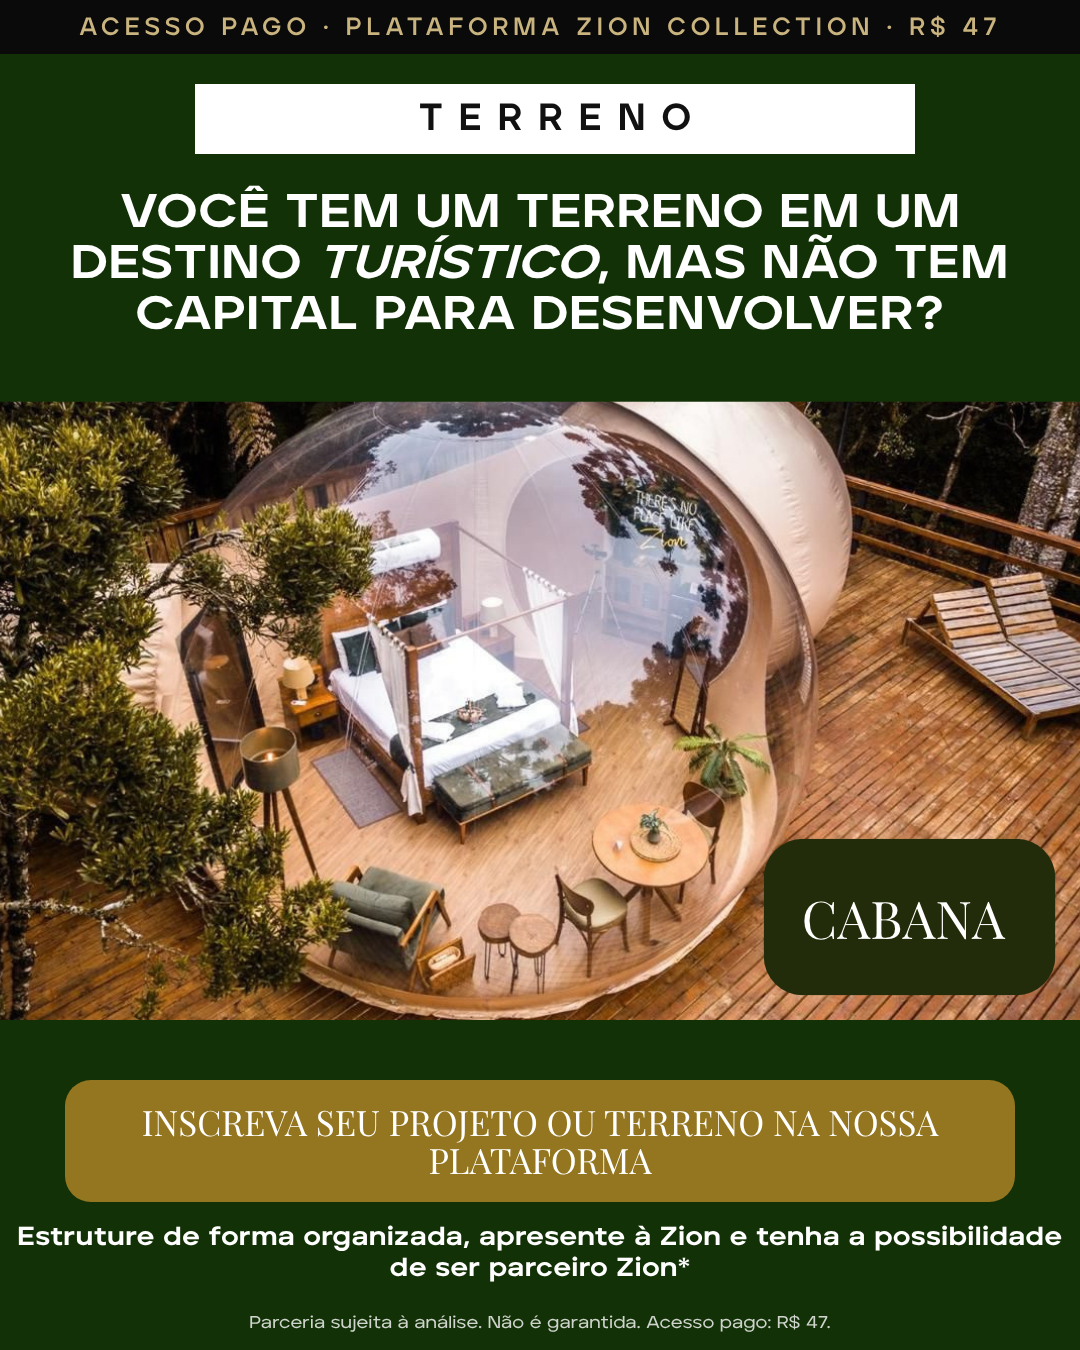
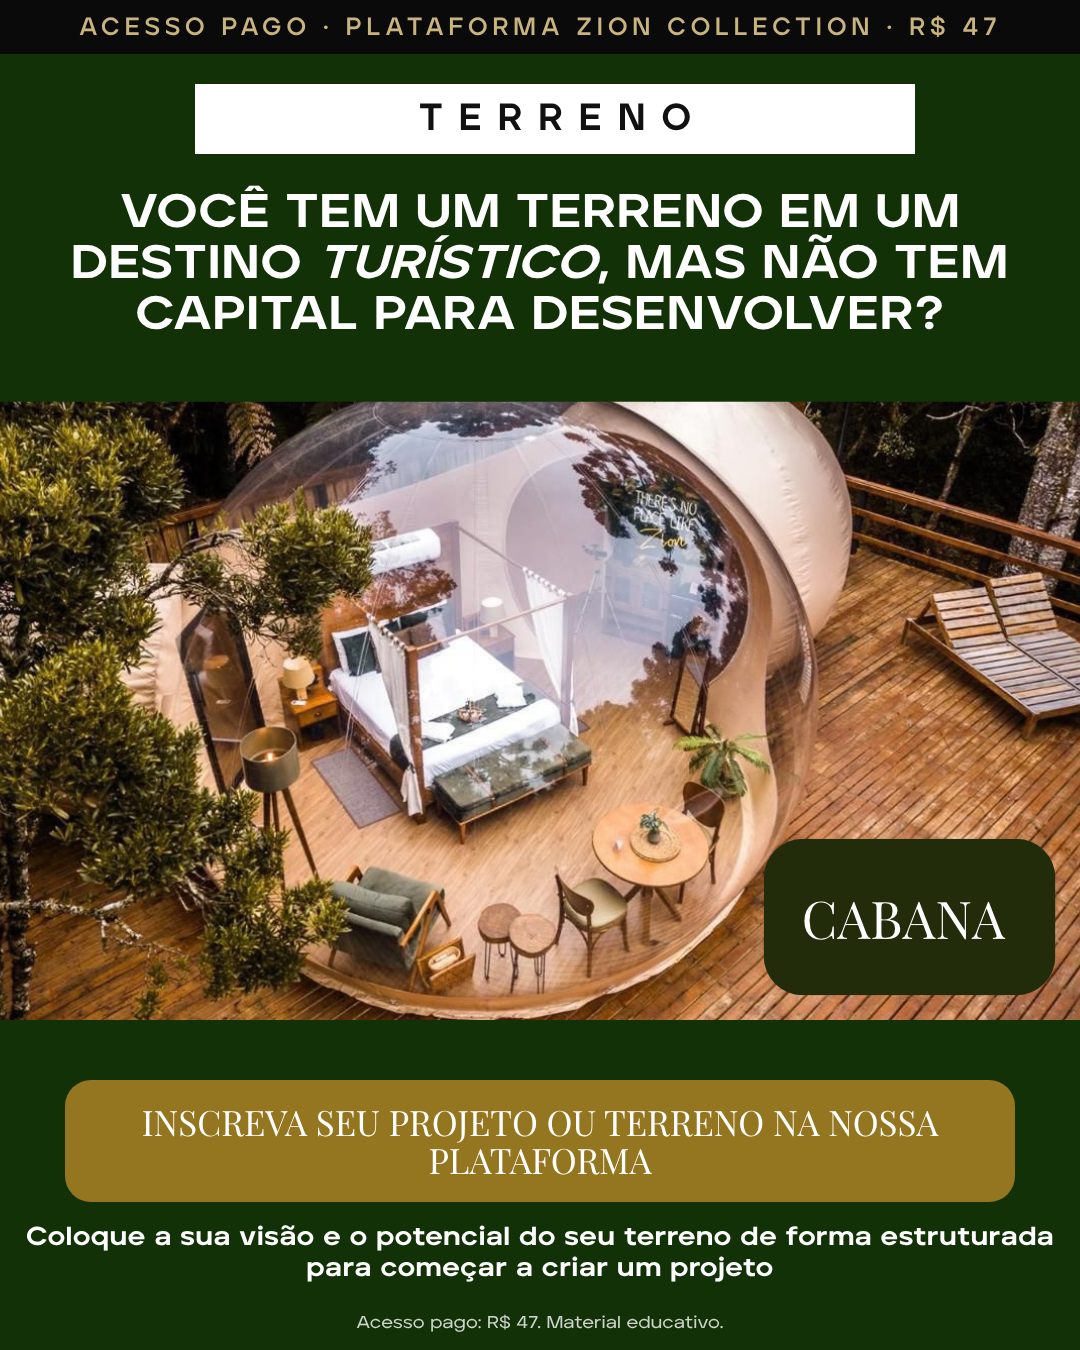
Carrossel V2 para dono de pousada e Airbnb (7 cartões, copy, UTM); cartão 1 do V1 com 'visão e potencial'
Claude-Session: https://claude.ai/code/session_01BzUk5bYdjCT6eSVqUG9zKZ

Changed region(s): [[0.0, 0.9022, 0.9778, 0.9956]]

diff --git a/docs/ads/zc47-carrossel/build_v2.js b/docs/ads/zc47-carrossel/build_v2.js
@@ -1,0 +1,75 @@
+// Carrossel V2 (dono de pousada / Airbnb) · Plataforma Zion Collection R$ 47. Mesmo visual do campeão, fotos reais Zion sem pessoas.
+// Uso: node build_v2.js  (gera zc47v2-card-1..7.png)
+const {chromium}=require('playwright');const fs=require('fs');const path=require('path');
+const D=__dirname, R=path.resolve(D,'../..');
+const IMG=n=>`file://${R}/assets/${n}`;
+const css=`@font-face{font-family:P;src:url(file://${R}/trilha1/apresentacao/_motor/fonts/playfair-display-latin-wght-normal.woff2);font-weight:400 900}
+@font-face{font-family:A;src:url(file://${R}/assets/fonts/aventa.woff2);font-weight:300 900}
+*{margin:0;box-sizing:border-box}body{width:1080px;height:1350px;position:relative;overflow:hidden;background:#133107;color:#fff}
+.b{position:absolute}.ph{position:absolute;background-size:cover;background-position:center}
+.w{font-family:A;font-weight:800;text-transform:uppercase;text-align:center;line-height:1.08;letter-spacing:.01em}
+.s{font-family:P;text-align:center;line-height:1.12}
+.strip{position:absolute;left:0;top:0;width:1080px;height:54px;background:#0a0a0a;color:#C9B37E;font-family:A;font-weight:700;font-size:25px;letter-spacing:.2em;display:flex;align-items:center;justify-content:center;text-transform:uppercase;z-index:9}
+.btn{position:absolute;display:flex;align-items:center;justify-content:center;text-align:center;font-family:P}
+.leg{position:absolute;left:24px;bottom:20px;background:rgba(0,0,0,.6);color:#fff;font-family:A;font-size:19px;padding:6px 14px;border-radius:8px}
+.note{font-family:P;text-align:center;line-height:1.15}`;
+const G='#133107',Y='#947620',PU='#8f688f',BE='#d5c1bc';
+const NOTA='*Parceria sujeita à análise. Não é garantida.';
+const cards=[
+// 1 hook
+`<div class="b" style="left:0;top:54px;width:1080px;height:430px;background:${G}"></div>
+<div class="b" style="left:215px;top:92px;width:650px;height:64px;background:#fff;display:flex;align-items:center;justify-content:center;font-family:A;font-weight:800;font-size:34px;letter-spacing:.3em;color:#111;padding-left:.3em">POUSADA · AIRBNB</div>
+<div class="b w" style="left:80px;right:80px;top:190px;font-size:45px">Dono de pousada ou Airbnb: pensando em <i>diferenciação</i> e em expandir no seu destino?</div>
+<div class="ph" style="left:0;top:484px;width:1080px;height:520px;background-image:url(${IMG('operacoes/op10.webp')})"></div><div class="leg">Fotos reais de operações da Zion</div>
+<div class="b" style="left:0;top:1004px;width:1080px;height:346px;background:${G}"></div>
+<div class="btn" style="left:65px;top:1050px;width:950px;height:122px;border-radius:26px;background:${Y};font-size:40px;line-height:1.1;padding:0 30px">INSCREVA-SE NA NOSSA PLATAFORMA · R$ 47</div>
+<div class="b w" style="left:60px;right:60px;top:1210px;font-size:27px;text-transform:none;font-weight:700;line-height:1.25">Apresente a sua ideia e o seu negócio de forma estruturada</div>`,
+// 2 virada
+`<div class="ph" style="left:0;top:54px;width:1080px;height:1296px;background-image:url(${IMG('store/hero.webp')});background-position:50% 30%"></div>
+<div class="b" style="left:0;top:700px;width:1080px;height:650px;background:linear-gradient(0deg,rgba(4,6,5,.96) 55%,rgba(4,6,5,0))"></div>
+<div class="b s" style="left:70px;right:70px;top:930px;font-size:78px;font-weight:600;line-height:1.05">Pare de vender <i style="color:#C9B37E">paredes</i>.<br>Comece a vender <i style="color:#C9B37E">experiência</i>.</div>
+<div class="b w" style="left:70px;right:70px;top:1215px;font-size:27px;text-transform:none;font-weight:600;color:rgba(255,255,255,.9)">Diferenciação é o que faz o seu destino ser lembrado</div><div class="leg" style="bottom:auto;top:76px">Foto real de operação da Zion</div>`,
+// 3 oportunidade
+`<div class="b" style="left:0;top:54px;width:560px;height:1296px;background:${Y}"></div>
+<div class="b w" style="left:40px;width:480px;top:130px;font-size:30px;color:#fff">Para donos de pousada e Airbnb</div>
+<div class="b s" style="left:36px;width:488px;top:300px;font-size:62px;font-weight:700;color:#0b0b0b;line-height:1.08">Estamos abrindo a oportunidade de você ser um parceiro Zion*</div>
+<div class="b s" style="left:40px;width:480px;top:830px;font-size:36px;color:#fff;line-height:1.2">Inscreva-se na nossa plataforma e apresente a sua ideia e o seu negócio.</div>
+<div class="note b" style="left:40px;width:480px;top:1250px;font-size:22px;color:#fff">${NOTA}</div>
+<div class="ph" style="left:560px;top:54px;width:520px;height:1296px;background-image:url(${IMG('store/dentro.webp')});background-position:38% 50%"></div>`,
+// 4 como funciona
+`<div class="ph" style="left:0;top:54px;width:1080px;height:560px;background-image:url(${IMG('operacoes/op07.webp')});background-position:50% 55%"></div>
+<div class="b" style="left:0;top:614px;width:1080px;height:736px;background:${G}"></div>
+<div class="b s" style="left:60px;right:60px;top:650px;font-size:50px;font-weight:700;color:#C9B37E">Como funciona</div>
+<div class="b" style="left:80px;top:760px;width:920px;font-family:P;font-size:46px;line-height:1.28;color:#fff">
+<div style="margin-bottom:34px"><span style="color:#C9B37E;font-weight:700">1.</span> Preencha os formulários</div>
+<div style="margin-bottom:34px"><span style="color:#C9B37E;font-weight:700">2.</span> Assista aos vídeos</div>
+<div style="margin-bottom:34px"><span style="color:#C9B37E;font-weight:700">3.</span> Faça os exercícios</div></div>
+<div class="b w" style="left:70px;right:70px;top:1235px;font-size:26px;text-transform:none;font-weight:600">Apresente a sua ideia e o seu negócio de forma estruturada</div><div class="leg" style="bottom:auto;top:76px">Foto real de operação da Zion</div>`,
+// 5 queremos te conhecer
+`<div class="ph" style="left:0;top:54px;width:1080px;height:1050px;background-image:url(${IMG('store/noite.webp')});background-position:50% 50%"></div>
+<div class="b" style="left:0;top:54px;width:1080px;height:520px;background:linear-gradient(180deg,rgba(4,6,5,.75),rgba(4,6,5,0))"></div>
+<div class="b s" style="left:70px;right:70px;top:150px;font-size:92px;font-weight:600;line-height:1.02">Queremos te <i style="color:#C9B37E">conhecer</i>.</div>
+<div class="b" style="left:0;top:1104px;width:1080px;height:246px;background:${BE}"></div>
+<div class="b w" style="left:60px;right:60px;top:1128px;font-size:33px;color:#232c0a;font-weight:500">Depois de preencher os formulários, você pode solicitar a sua sessão de direcionamento com a nossa equipe, com os próximos passos*</div>
+<div class="note b" style="left:60px;right:60px;top:1296px;font-size:21px;color:#232c0a">*Sessão sujeita à análise e à agenda. Parceria não é garantida.</div>`,
+// 6 autoridade
+`<div class="ph" style="left:0;top:54px;width:1080px;height:760px;background-image:url(${IMG('operacoes/op11.webp')});background-position:50% 45%"></div>
+<div class="b" style="left:0;top:814px;width:1080px;height:536px;background:${PU}"></div>
+<div class="b s" style="left:60px;right:60px;top:850px;font-size:66px;font-weight:900;color:#0b0b0b;line-height:1.05">Vem com a Zion.</div>
+<div class="b s" style="left:80px;right:80px;top:960px;font-size:44px;font-weight:700;color:#0b0b0b;text-transform:uppercase;line-height:1.1">Desenvolvemos projetos de hospedagem e turismo há mais de 20 anos</div>
+<div class="b s" style="left:80px;right:80px;top:1150px;font-size:36px;font-weight:700;color:#fff;text-transform:uppercase;line-height:1.12">E somos referência em glamping no Brasil</div>
+<div class="leg" style="bottom:auto;top:76px">Foto real de operação da Zion</div>`,
+// 7 conversão
+`<div class="b" style="left:0;top:54px;width:572px;height:1296px;background:${Y}"></div>
+<div class="b s" style="left:40px;width:492px;top:130px;font-size:50px;font-weight:900;color:#0b0b0b;text-transform:uppercase;line-height:1.1">Plataforma Zion Collection</div>
+<div class="b s" style="left:40px;width:492px;top:310px;font-size:31px;color:#0b0b0b;line-height:1.2">Apresente a sua ideia e o seu negócio de forma estruturada e tenha a possibilidade de ser parceiro Zion*</div>
+<div class="b s" style="left:40px;width:492px;top:520px;font-size:120px;color:#0b0b0b;line-height:1">R$ 47</div>
+<div class="b s" style="left:40px;width:492px;top:670px;font-size:28px;color:#0b0b0b;line-height:1.3">Pagamento único, sem mensalidade<br>Pix ou cartão<br>Reembolso em até 7 dias</div>
+<div class="btn" style="left:46px;top:900px;width:480px;height:215px;border-radius:52px;background:#ffed00;color:#0b0b0b;font-size:40px;font-weight:900;line-height:1.05;padding:0 24px">INSCREVA-SE NA NOSSA PLATAFORMA</div>
+<div class="note b" style="left:40px;width:492px;top:1180px;font-size:21px;color:#0b0b0b">${NOTA}</div>
+<div class="ph" style="left:572px;top:54px;width:508px;height:1296px;background-image:url(${IMG('operacoes/op12.webp')});background-position:50% 50%"></div>`];
+(async()=>{const b=await chromium.launch();const p=await b.newPage({viewport:{width:1080,height:1350}});
+for(let i=0;i<cards.length;i++){const f=`${D}/_t2.html`;
+ fs.writeFileSync(f,`<!doctype html><meta charset=utf-8><style>${css}</style><body>${cards[i]}<div class="strip">Acesso pago · Plataforma Zion Collection · R$ 47</div></body>`);
+ await p.goto('file://'+f);await p.waitForTimeout(500);await p.screenshot({path:`${D}/zc47v2-card-${i+1}.png`});}
+fs.unlinkSync(`${D}/_t2.html`);await b.close();})();

diff --git a/docs/ads/zc47-carrossel/build.js b/docs/ads/zc47-carrossel/build.js
@@ -22,7 +22,7 @@ const cards=[
 <div class="b w" style="left:90px;right:90px;top:188px;font-size:47px;color:#fff">Você tem um terreno em um destino <i>turístico</i>, mas não tem capital para desenvolver?</div>
 <div class="b" style="left:0;top:1020px;width:1080px;height:330px;background:${G}"></div>
 <div class="b s" style="left:65px;top:1080px;width:950px;height:122px;border-radius:26px;background:${Y};color:#fff;font-size:35px;display:flex;align-items:center;justify-content:center;line-height:1.1;padding:0 30px">INSCREVA SEU PROJETO OU TERRENO NA NOSSA PLATAFORMA</div>
-<div class="b w" style="left:60px;right:60px;top:1222px;font-size:26px;color:#fff;text-transform:none;line-height:1.2">Estruture de forma organizada, apresente à Zion e tenha a possibilidade de ser parceiro Zion*</div><div class="b w" style="left:60px;right:60px;top:1314px;font-size:17px;color:rgba(255,255,255,.8);text-transform:none;font-weight:500">Parceria sujeita à análise. Não é garantida. Acesso pago: R$ 47.</div>`],
+<div class="b w" style="left:60px;right:60px;top:1222px;font-size:26px;color:#fff;text-transform:none;line-height:1.2">Coloque a sua visão e o potencial do seu terreno de forma estruturada para começar a criar um projeto</div><div class="b w" style="left:60px;right:60px;top:1314px;font-size:17px;color:rgba(255,255,255,.8);text-transform:none;font-weight:500">Acesso pago: R$ 47. Material educativo.</div>`],
 // 2 confronto
 [CN+'2.png',`<div class="b" style="left:430px;top:0;width:650px;height:236px;background:${O}"></div>
 <div class="b w" style="left:470px;width:560px;top:70px;font-size:31px;color:#16210a">Seu terreno pode ter potencial turístico. Sozinho, isso não vira um projeto.</div><div class="ilus">Imagens ilustrativas</div>`],

diff --git a/docs/ads/zc47-carrossel/COPIES_V2.md b/docs/ads/zc47-carrossel/COPIES_V2.md
@@ -1,0 +1,33 @@
+# Carrossel V2 · dono de pousada e Airbnb · Plataforma Zion Collection (R$ 47)
+Status: arte pronta para revisão. Nada enviado ao Meta; nada ativado. Campanha nasce pausada.
+Arquivos: `zc47v2-card-1.png` a `-7.png` (1080x1350), painel `painel_v2.jpg`, gerador `build_v2.js`. Fotos reais da Zion sem pessoas, com a legenda "Foto real de operação da Zion". Faixa fixa "Acesso pago · Plataforma Zion Collection · R$ 47".
+**Destino:** https://www.zionhotelgroup.com/inscricao · **Botão do Meta:** Saiba mais
+
+## Cartões
+1. "Dono de pousada ou Airbnb: pensando em diferenciação e em expandir no seu destino?" / botão "Inscreva-se na nossa plataforma · R$ 47"
+2. "Pare de vender paredes. Comece a vender experiência."
+3. "Estamos abrindo a oportunidade de você ser um parceiro Zion*"
+4. Como funciona: 1. Preencha os formulários 2. Assista aos vídeos 3. Faça os exercícios
+5. "Queremos te conhecer." / "Depois de preencher os formulários, você pode solicitar a sua sessão de direcionamento com a nossa equipe, com os próximos passos*"
+6. "Vem com a Zion." / "Desenvolvemos projetos de hospedagem e turismo há mais de 20 anos e somos referência em glamping no Brasil" (afirmações do dono, já usadas no Carrossel C)
+7. Conversão: R$ 47, pagamento único, Pix ou cartão, reembolso em até 7 dias, botão "Inscreva-se na nossa plataforma"
+
+## Texto primário
+Acesso pago à plataforma Zion Collection, R$ 47.
+
+Ei, dono de pousada ou de Airbnb: você está pensando em diferenciação e em expandir no seu destino ou no seu terreno? A Zion Collection está abrindo a oportunidade de você ser um parceiro Zion*.
+
+Inscreva-se na nossa plataforma e apresente a sua ideia e o seu negócio de forma estruturada: preencha os formulários, assista aos vídeos e faça os exercícios. Nós queremos te conhecer. Depois de preencher os formulários, você pode solicitar uma sessão de direcionamento com a nossa equipe, com os próximos passos*.
+
+Pare de vender paredes e comece a vender experiência. Vem com a Zion.
+
+R$ 47, pagamento único. Pix ou cartão. Reembolso em até 7 dias.
+*Parceria e sessão sujeitas à análise e à agenda. Não são garantidas.
+
+## UTM
+`utm_source=meta&utm_medium=paid&utm_campaign=zc47-pousada-airbnb&utm_content=zc47v2-carrossel&utm_term={{ad.id}}&sck={{campaign.id}}&ad_id={{ad.id}}&campaign_id={{campaign.id}}&adset_id={{adset.id}}`
+
+## Ficou de fora, por regra
+- "O glamping é o setor que mais cresce no Brasil": afirmação de mercado sem fonte. Só entra com a fonte e a data (me passe o estudo e eu coloco, com a fonte no rodapé do cartão).
+- "Você tem uma sessão de direcionamento": escrevi "pode solicitar", porque a sessão é sujeita à análise e à agenda (como diz a página).
+- Público sugerido (a confirmar): donos de pousada e anfitriões de Airbnb (interesses/cargos), sem usar o lookalike do campeão de terreno.
